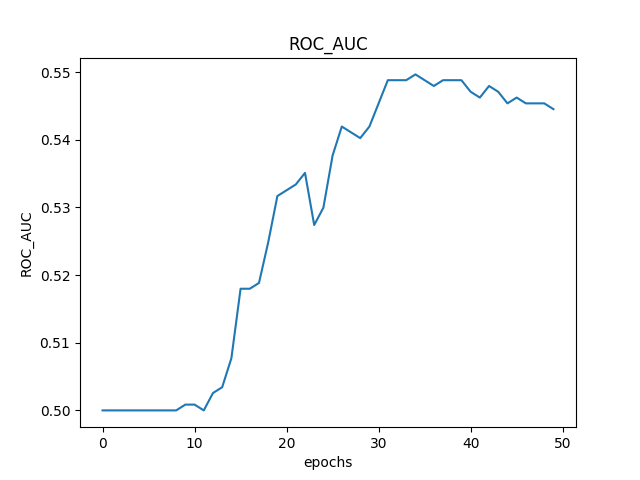
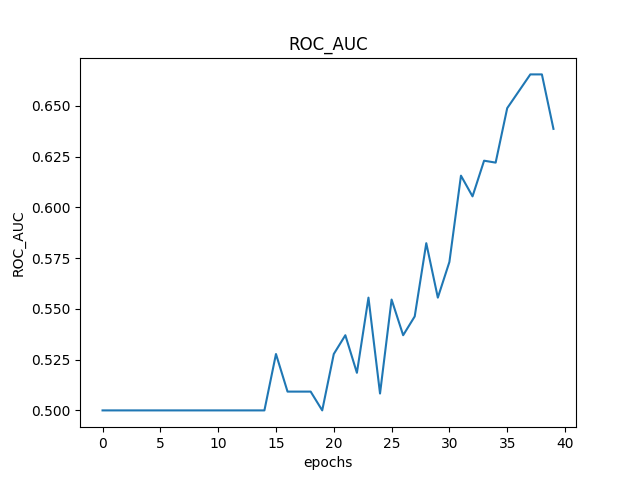
fix errors with training model

diff --git a/neural.py b/neural.py
@@ -7,21 +7,24 @@ import torch.nn as nn
 import torch.optim as optim
 import torchvision.transforms as transforms
 import vgg  #  the file containing our network architecture
-import data_formatter
 from torcheval.metrics.functional import binary_f1_score, binary_auroc
 import matplotlib.pyplot as plt
+from data_formatter import get_test_files
+from data_formatter import SIZE_IMAGES
 
 '''  Handle the number of batches used for each step '''
-image_size = 150
-train_samples = 2560
-validation_samples = 1168
-test_samples = 16
-batch_size = 8
+
+epochs = 40
+
+
+train_samples, validation_samples, test_samples = np.load('temp/len.npy')
+
+batch_size = 1
 train_batches = train_samples // batch_size
 validation_batches = validation_samples // batch_size
 test_batches = test_samples // batch_size
+image_size = SIZE_IMAGES[0]
 
-epochs = 50
 
 
 
@@ -34,23 +37,23 @@ def write_predicted(testing_file_names, predictions, file_name):
         fd.write(testing_file_names[i] + ',' + str(x) + '\n')
     fd.close()
 
-def get_testing_files():
-    fd = open('test.txt')
-    file_names = []
-    for line in fd.readlines():
-        info = line.strip('\n')
-        file_names.append(info)
-    fd.close()
-    return file_names
+# def get_testing_files():
+#     fd = open('test.txt')
+#     file_names = []
+#     for line in fd.readlines():
+#         info = line.strip('\n')
+#         file_names.append(info)
+#     fd.close()
+#     return file_names
 
 
 def load_train_data():
-    train_images = np.load('train_mels_150/train.npy')
+    train_images = np.load('temp/train_mels_150/train.npy')
     train_images = torch.from_numpy(train_images).float().cuda()
     
     train_images = train_images.reshape((train_batches, batch_size, 1, image_size, image_size))
 
-    train_labels = np.load('train_mels_150/train_labels.npy')
+    train_labels = np.load('temp/train_mels_150/train_labels.npy')
     train_labels = torch.from_numpy(train_labels).long().cuda()
     
     train_labels = train_labels.reshape((train_batches, batch_size))
@@ -58,32 +61,32 @@ def load_train_data():
 
 
 def load_validation_data():
-    validation_images = np.load('validation_mels_150/validation.npy')
+    validation_images = np.load('temp/validation_mels_150/validation.npy')
     validation_images = torch.from_numpy(validation_images).float().cuda()
     validation_images = validation_images.reshape((validation_batches, batch_size, 1, image_size, image_size))
 
-    validation_labels = np.load('validation_mels_150/validation_labels.npy')
+    validation_labels = np.load('temp/validation_mels_150/validation_labels.npy')
     validation_labels = torch.from_numpy(validation_labels).long().cuda()
     validation_labels = validation_labels.reshape((validation_batches, batch_size))
     return validation_images, validation_labels
 
 
 def load_test_data():
-    test_images = np.load('test_mels_150/test.npy')
+    test_images = np.load('temp/test_mels_150/test.npy')
     test_images = torch.from_numpy(test_images).float().cuda()
     test_images = test_images.reshape((test_batches, batch_size, 1, image_size, image_size))
     return test_images
 
 
-''' Function that outputs the confusion matrix for the predicted and real labels given '''
-def get_confusion_matrix(predictions, labels):
-    matrix = [[0, 0], [0, 0]]
-    labels_f = labels.flatten()
-    for i in range(len(predictions)):
-        matrix[labels_f[i].item()][predictions[i].item()] += 1
-    fd = open('conf_matrix.txt', 'w')
-    fd.write(str(matrix[0][0]) + ' ' + str(matrix[0][1]) + ' ' + str(matrix[1][0]) + ' ' + str(matrix[1][1]))
-    fd.close()
+# ''' Function that outputs the confusion matrix for the predicted and real labels given '''
+# def get_confusion_matrix(predictions, labels):
+#     matrix = [[0, 0], [0, 0]]
+#     labels_f = labels.flatten()
+#     for i in range(len(predictions)):
+#         matrix[labels_f[i].item()][predictions[i].item()] += 1
+#     fd = open('conf_matrix.txt', 'w')
+#     fd.write(str(matrix[0][0]) + ' ' + str(matrix[0][1]) + ' ' + str(matrix[1][0]) + ' ' + str(matrix[1][1]))
+#     fd.close()
 
 
 
@@ -96,10 +99,11 @@ def train_and_test():
 
 
     #  Initialialize the normalization function
-    #  These values are obtained using data_formatter.get_numeric_values()
-    #  They are hardcoded because it's redundant to be computed every time.
-    norm = transforms.Normalize(mean = [-47.41110035071766], std = [21.863642215782225])
-
+    # norm = transforms.Normalize(mean = [-47.41110035071766], std = [21.863642215782225])
+    # because there are significantly more objects
+    m = np.load('temp/test_mels_150/test.npy')
+    norm = transforms.Normalize(mean = np.mean(m), std=np.std(m))
+    del m
 
     #  Normalizing values accross all images
     for i in range(train_batches):
@@ -125,15 +129,15 @@ def train_and_test():
 
     metrics = {"f1":[], "ROC_AUC":[], "accuracy":[], "loss":[]}
 
-    #  https://github.com/andreiarnautu/Sudoku-Solver/blob/master/train.py
     
     for epoch in range(epochs):
         running_loss = 0.0
         #  Train mode
         print_offset = train_batches // 5
+
+        net.train()
         for i in range(train_batches):
             inputs, labels = train_images[i], train_labels[i]
-            net.train()
             outputs = net(inputs)
             loss = criterion(outputs, labels)
             loss.backward()
@@ -148,9 +152,10 @@ def train_and_test():
         correct = 0
         total = 0
         with torch.no_grad():
+            
+            net.eval()
             for i in range(train_batches):
                 inputs, labels = train_images[i], train_labels[i]
-                net.eval()
                 outputs = net(inputs)
                 _, predicted = torch.max(outputs.data, 1)
                 loss = criterion(outputs, labels)
@@ -165,10 +170,10 @@ def train_and_test():
         validation_loss = 0
         predictions = torch.zeros(validation_samples, dtype = torch.long)
         index = 0
+        net.eval()
         with torch.no_grad():
             for i in range(validation_batches):
                 inputs, labels = validation_images[i], validation_labels[i]
-                net.eval()
                 outputs = net(inputs)
                 predicted = torch.max(outputs.data, 1).indices
                 loss = criterion(outputs, labels)
@@ -178,7 +183,7 @@ def train_and_test():
                 for j in range(index, index + batch_size):
                     predictions[j] = predicted[j - index]
                 index += batch_size
-        get_confusion_matrix(predictions, validation_labels)
+        # get_confusion_matrix(predictions, validation_labels)
         
         lb = validation_labels.reshape(predictions.shape)
         f1 = binary_f1_score(predictions.cuda(), lb.cuda())
@@ -229,10 +234,9 @@ def train_and_test():
                 predictions[j] = predicted[j - index]
             index += batch_size
 
-    testing_file_names = get_testing_files()
+    testing_file_names = get_test_files()
     write_predicted(testing_file_names, predictions, 'submission.txt')
 
 
 if __name__ == '__main__':
-    # data_formatter.audio_to_images_librosa()
     train_and_test()

diff --git a/data_formatter.py b/data_formatter.py
@@ -4,7 +4,7 @@ import pandas as pd
 
 
 CLASSIFICATION_CLASS = "Alarm" # Chose one class from vocabulary.csv
-SIZE_IMAGES = (300,300)
+SIZE_IMAGES = (150,150)
 
 
 def get_file_names() -> dict:
@@ -29,7 +29,9 @@ def get_dev_labels(classification_class:str):
     '''Classification class chose from vocabulary.csv'''
 
     files = get_file_names()['dev']
-    df = pd.read_csv("./FSD50K/ground_truth/dev.csv")
+    
+    # Reverse because many corrupted files in start of base
+    df = pd.read_csv("./FSD50K/ground_truth/dev.csv") #.iloc[::-1]
 
     train_count, val_count = count_true_examples(df, classification_class)
 
@@ -39,16 +41,25 @@ def get_dev_labels(classification_class:str):
     for _, row in df.iterrows():
         fname = str(row['fname'])+".wav"
         if (fname) in files:
-            if row['split'] == "train" and train_count > 0:
-                train_info['names'].append("FSD50K/dev_audio/" + fname)
+            if row['split'] == "train":
                 categories = row['labels'].split(',')
-                train_count -= 0 if classification_class in categories else 1
-                train_info['labels'].append(classification_class in categories)
-            elif row['split'] == "val" and val_count > 0:
-                validation_info['names'].append("FSD50K/dev_audio/" + fname)
+                if classification_class in categories:     
+                    train_info['names'].append("FSD50K/dev_audio/" + fname)
+                    train_info['labels'].append(1)
+                elif train_count > 0:
+                    train_count -= 1
+                    train_info['names'].append("FSD50K/dev_audio/" + fname)
+                    train_info['labels'].append(0)
+
+            elif row['split'] == "val":       
                 categories = row['labels'].split(',')
-                val_count -= 0 if classification_class in categories else 1
-                validation_info['labels'].append(classification_class in categories)
+                if classification_class in categories:
+                    validation_info['names'].append("FSD50K/dev_audio/" + fname)
+                    validation_info['labels'].append(1)
+                elif val_count > 0:
+                    val_count -= 1
+                    validation_info['names'].append("FSD50K/dev_audio/" + fname)
+                    validation_info['labels'].append(0)
 
     return (train_info['names'], train_info['labels'],
             validation_info['names'], validation_info['labels'])
@@ -89,10 +100,9 @@ def get_melspectrogram(path, fixed_width = 150, fixed_height = 150):
 
     return spectrogram[:, :fixed_width]
 
-def clear_empty(dataset, empty, size):
-    '''Clear empty data'''
+def clear_test(dataset, empty, size):
+    '''Clear empty test images'''
     cleared = np.zeros((len(dataset) - empty, size[0], size[1]))
-    zeroes = np.zeros((size[0], size[1]))
     counter = 0
     for i in dataset:
         if i.any():
@@ -100,7 +110,19 @@ def clear_empty(dataset, empty, size):
             counter += 1 
     return cleared
 
-def generate_melspectrogramms(file_names, size):
+def clear_empty(dataset, labels, empty, size):
+    '''Clear empty test images'''
+    cleared = np.zeros((len(dataset) - empty, size[0], size[1]))
+    labels_cleared = np.zeros((len(dataset) - empty))
+    counter = 0
+    for i, elem in enumerate(dataset):
+        if elem.any():
+            cleared[counter] = elem
+            labels_cleared[counter] = labels[i]
+            counter += 1 
+    return cleared, labels_cleared
+
+def generate_melspectrogramms(file_names, size, labels = None):
     '''Get cleared melspecrogramms of all dataset'''
     data = np.zeros((len(file_names), size[0], size[1]))
     empty = 0
@@ -109,9 +131,12 @@ def generate_melspectrogramms(file_names, size):
             data[i] = get_melspectrogram(file_name, fixed_height=size[0], fixed_width=size[1])
         except EOFError:
             empty += 1
-    cleared = clear_empty(data, empty, size)
-    return cleared
-
+    if labels:
+        cleared, labels = clear_empty(data, labels, empty, size)
+        return cleared, labels
+    else:
+        cleared = clear_test(data, empty, size)
+        return cleared
 
 #  This functions generates and saves the melspectrograms used by the neural network.
 def audio_to_images_librosa(size:tuple):
@@ -121,10 +146,10 @@ def audio_to_images_librosa(size:tuple):
     generate_folders()
 
     print('Generating melspectrograms for training...')
-    training_images = generate_melspectrogramms(training_file_names, size)
+    training_images, training_labels = generate_melspectrogramms(training_file_names, size, training_labels)
 
     print('Generating melspectrograms for validation...')
-    validation_images = generate_melspectrogramms(validation_file_names, size)
+    validation_images, validation_labels = generate_melspectrogramms(validation_file_names, size, validation_labels)
 
 
     print('Generating melspectrograms for testing...')
@@ -140,6 +165,8 @@ def audio_to_images_librosa(size:tuple):
     #  Save labels
     np.save('temp/train_mels_150/train_labels.npy', np.asarray(training_labels, dtype = 'int'))
     np.save('temp/validation_mels_150/validation_labels.npy', np.asarray(validation_labels, dtype = 'int'))
+
+    np.save('temp/len.npy', np.asarray([training_images.shape[0], validation_images.shape[0], testing_images.shape[0]], dtype = 'int'))
 
 
 if __name__ == '__main__':
